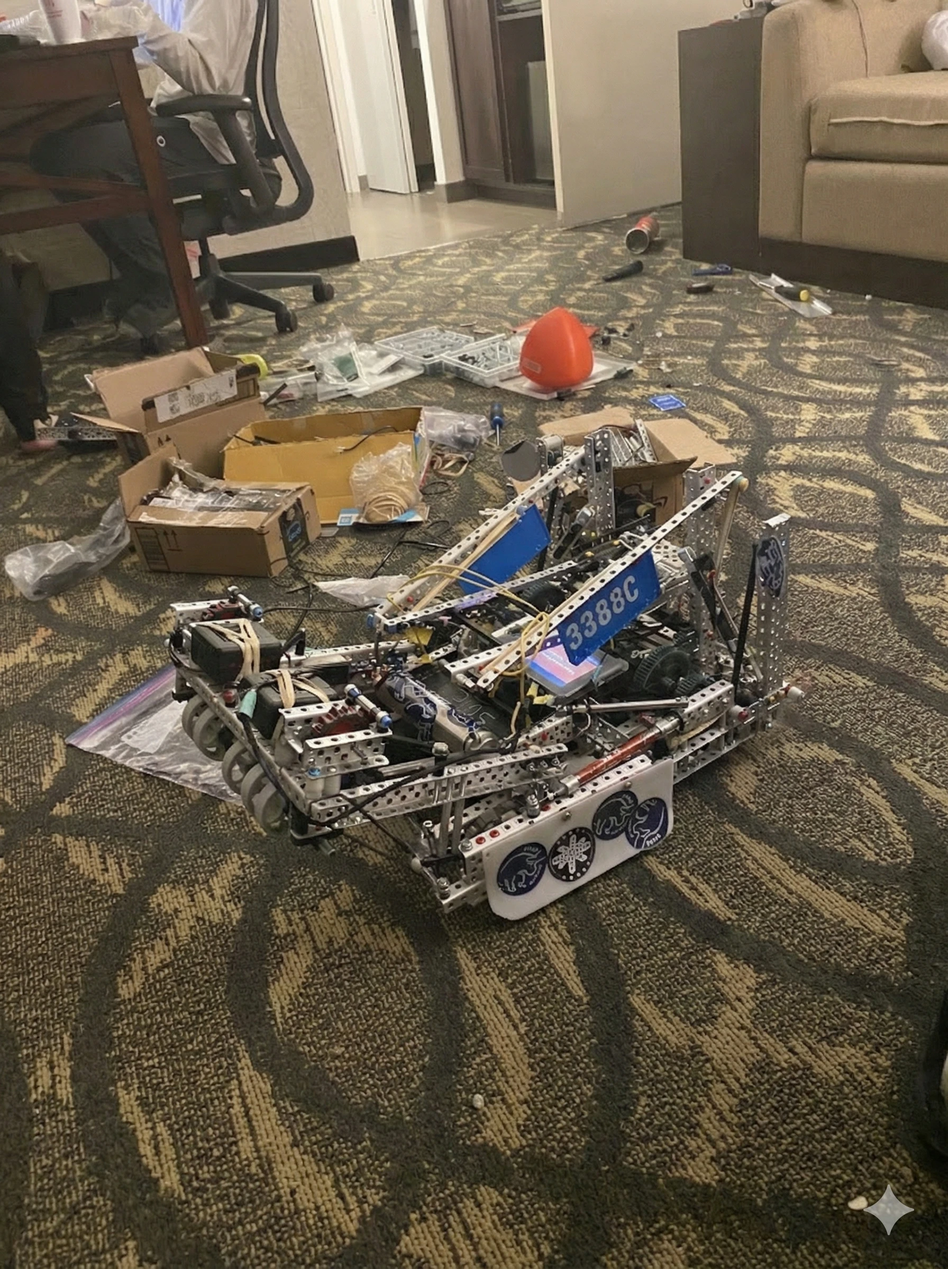
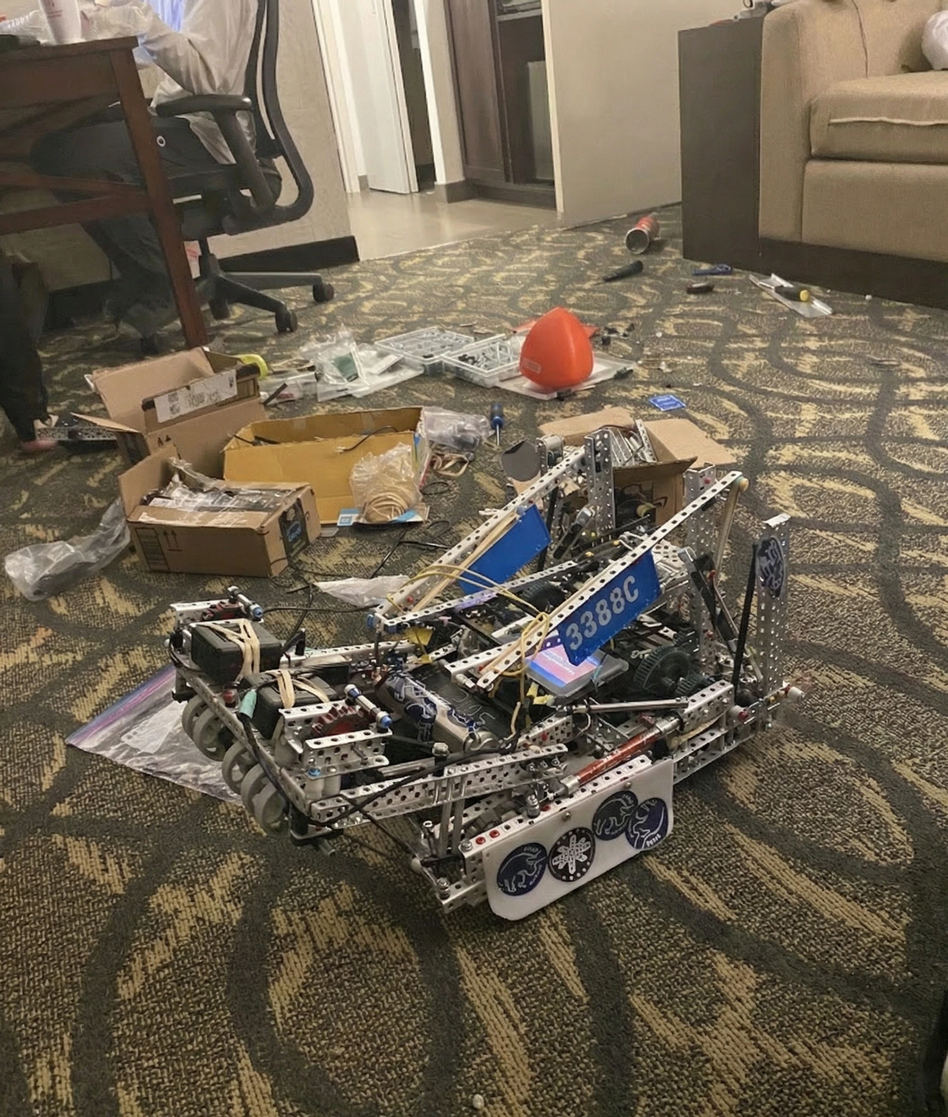
update photos

diff --git a/src/content.ts b/src/content.ts
@@ -131,7 +131,7 @@ export const projects: Project[] = [
     photoGroups: [
       { afterParagraph: 0, photos: [
         { src: '/vex-worlds-climb.gif', alt: 'The Worlds robot lifting itself onto the bar with its winch climbing mechanism.', caption: 'our worlds robot climbing mechanism in action!', width: 400, height: 225 },
-        { src: '/vex-worlds-robot.webp', alt: 'Team 3388C Worlds robot with its metal frame, blue team panels, and climbing mechanism.', caption: 'our worlds robot.', width: 1792, height: 2400, cropBottom: 288 },
+        { src: '/vex-worlds-robot.webp', alt: 'Team 3388C Worlds robot with its metal frame, blue team panels, and climbing mechanism.', caption: 'our worlds robot.', width: 1792, height: 2112 },
         { src: '/vex-robot.webp', alt: 'CAD rendering of the VEX competition robot.', caption: 'the provincial robot, designed in fusion 360 with custom laser-cut parts.', width: 1961, height: 1063 },
         { src: '/vex-odometry.webp', alt: 'CAD design of the first iteration of the odometry pods.', caption: 'the first iteration of our odometry pods!', width: 985, height: 937 },
         { src: '/vex-drivetrain.webp', alt: 'CAD overview of the custom laser-cut robot parts.', caption: 'an overview of all the laser-cut parts i designed.', width: 660, height: 1147 },
